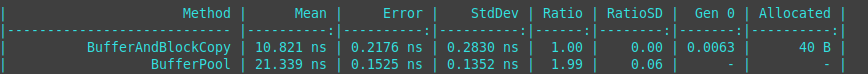
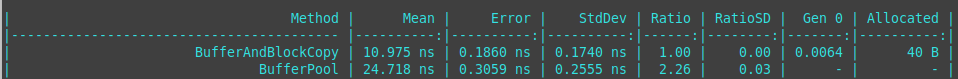
More text

diff --git a/benchmarks/ConcurrentDictionaryUsage.cs b/benchmarks/ConcurrentDictionaryUsage.cs
@@ -1,0 +1,18 @@
+using System;
+using System.Collections.Concurrent;
+
+public static class ConcurrentDictionaryUsage 
+{
+    public static void Use()
+    {
+        var someState1 = new object();
+        var someOtherState = 42;
+
+        var dictionary = new ConcurrentDictionary<string, string>();
+
+        dictionary.GetOrAdd("SomeKey", static (key, state) => {
+            var (someState, someOtherState) = state;
+            return $"{someState}_{someOtherState}";
+        }, (someState1, someOtherState));
+    }
+}

diff --git a/benchmarks/GuidConversion.cs b/benchmarks/GuidConversion.cs
@@ -74,4 +74,17 @@ public class GuidConversion
         }
         return lockTokenGuid;
     }
+
+    [Benchmark]
+    [SkipLocalsInit]
+    public Guid StackallocWithMemoryMarshalAndLocalsInit()
+    {
+        Span<byte> guidBytes = stackalloc byte[16];
+        data.AsSpan().CopyTo(guidBytes);
+        if (!MemoryMarshal.TryRead<Guid>(guidBytes, out var lockTokenGuid))
+        {
+            lockTokenGuid = new Guid(guidBytes.ToArray());
+        }
+        return lockTokenGuid;
+    }
 }

diff --git a/README.md b/README.md
@@ -440,7 +440,21 @@ To demonstrate how these can add up in real-world scenarios, let me show you a b
 
 ![](benchmarks/NServiceBusPipelineExecution.png)
 
-But how would I detect those? When using memory tools, look out for excessive allocations of `*__DisplayClass*` or various variants of `Action` and `Func` allocations. Extensions like the [Heap Allocation Viewer](https://plugins.jetbrains.com/plugin/9223-heap-allocations-viewer) for Rider for example can also help to discover these types of issues while writing or refactoring code. 
+But how would I detect those? When using memory tools, look out for excessive allocations of `*__DisplayClass*` or various variants of `Action` and `Func` allocations. Extensions like the [Heap Allocation Viewer](https://plugins.jetbrains.com/plugin/9223-heap-allocations-viewer) for Rider for example can also help to discover these types of issues while writing or refactoring code. Many built-in .NET types that use delegates have nowadays generic overloads that allow to pass state into the delegate. For example `ConcurrentDictionary` has `public TValue GetOrAdd<TArg> (TKey key, Func<TKey,TArg,TValue> valueFactory, TArg factoryArgument);` which allows to pass external state into the lambda. When you need to access multiple state parameters inside the `GetOrAdd` method you can use `ValueTuple` to pass the state into it.
+
+```csharp
+var someState1 = new object();
+var someOtherState = 42;
+
+var dictionary = new ConcurrentDictionary<string, string>();
+
+dictionary.GetOrAdd("SomeKey", static (key, state) => 
+{
+    var (someState, someOtherState) = state;
+
+    return $"{someState}_{someOtherState}";
+}, (someState1, someOtherState));
+```
 
 ### Pool and re-use buffers (and larger objects)
 
@@ -480,10 +494,19 @@ data.AsSpan().CopyTo(guidBytes);
 var lockTokenGuid = new Guid(guidBytes);
 ```
 
+With the introduction of `Span<T>` and the `stackalloc` keyword we can directly allocate the memory on the method's stack that is cleared when the method returns. 
+
+![](/benchmarks/StackallocWithGuid.png.png)
+
+## Parameter overloads and boxing
+
+Should I add this?
 
 ## Avoid unnecessary copying of memory
 
-TBD
+Show https://github.com/Azure/azure-sdk-for-net/pull/11255/files
+and
+https://github.com/Azure/azure-sdk-for-net/pull/27598/files
 
 ## Interesting Pullrequests
 
@@ -515,3 +538,4 @@ TBD
 - [Konrad Kokosa - High-performance code design patterns in C#](https://prodotnetmemory.com/slides/PerformancePatternsLong)
 - [David Fowler - Implementation details matter](https://speakerdeck.com/davidfowl/implementation-details-matter)
 - [Reuben Bond - Performance Tuning for .NET Core](https://reubenbond.github.io/posts/dotnet-perf-tuning)
+- [stackalloc expression](https://docs.microsoft.com/en-us/dotnet/csharp/language-reference/operators/stackalloc)

diff --git a/benchmarks/GuidConversion-report-github.md b/benchmarks/GuidConversion-report-github.md
@@ -4,14 +4,16 @@ BenchmarkDotNet=v0.13.1, OS=linuxmint 20.3
 11th Gen Intel Core i7-1185G7 3.00GHz, 1 CPU, 8 logical and 4 physical cores
 .NET SDK=6.0.201
   [Host]     : .NET 6.0.3 (6.0.322.12309), X64 RyuJIT
-  Job-UGQPJO : .NET 6.0.3 (6.0.322.12309), X64 RyuJIT
+  Job-YQCSEL : .NET 6.0.3 (6.0.322.12309), X64 RyuJIT
 
-InvocationCount=12800000  
+InvocationCount=25600000  
 
 ```
-|                      Method |      Mean |     Error |    StdDev | Ratio | RatioSD |  Gen 0 | Allocated |
-|---------------------------- |----------:|----------:|----------:|------:|--------:|-------:|----------:|
-|          BufferAndBlockCopy | 10.821 ns | 0.2176 ns | 0.2830 ns |  1.00 |    0.00 | 0.0063 |      40 B |
-|                  BufferPool | 21.339 ns | 0.1525 ns | 0.1352 ns |  1.99 |    0.06 |      - |         - |
-|          StackallocWithGuid |  5.877 ns | 0.0452 ns | 0.0378 ns |  0.55 |    0.02 |      - |         - |
-| StackallocWithMemoryMarshal |  6.074 ns | 0.0284 ns | 0.0252 ns |  0.57 |    0.02 |      - |         - |
+|                                   Method |      Mean |     Error |    StdDev | Ratio | RatioSD |  Gen 0 | Allocated |
+|----------------------------------------- |----------:|----------:|----------:|------:|--------:|-------:|----------:|
+|                       BufferAndBlockCopy | 10.975 ns | 0.1860 ns | 0.1740 ns |  1.00 |    0.00 | 0.0064 |      40 B |
+|                               BufferPool | 24.718 ns | 0.3059 ns | 0.2555 ns |  2.26 |    0.03 |      - |         - |
+|                       StackallocWithGuid |  6.078 ns | 0.0362 ns | 0.0321 ns |  0.55 |    0.01 |      - |         - |
+|          StackallocWithGuidAndLocalsInit |  6.193 ns | 0.1445 ns | 0.1281 ns |  0.56 |    0.01 |      - |         - |
+|              StackallocWithMemoryMarshal |  6.265 ns | 0.1125 ns | 0.1052 ns |  0.57 |    0.02 |      - |         - |
+| StackallocWithMemoryMarshalAndLocalsInit |  6.095 ns | 0.1184 ns | 0.1050 ns |  0.56 |    0.01 |      - |         - |
